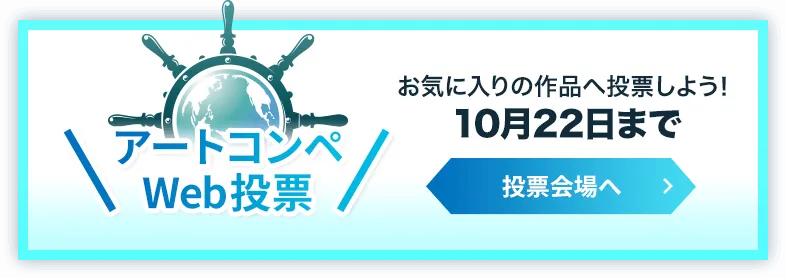
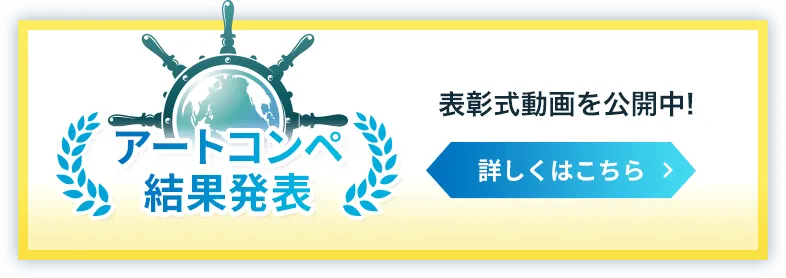
fix: 結果発表バナー・URL差し替え

diff --git a/src/pages/en/news/index.js b/src/pages/en/news/index.js
@@ -64,7 +64,7 @@ const NewsPage = ({ location }) => {
             <ContentsLine pathname={location.pathname} />
             <TextMediumTrim>We are very happy to announce the BLUE HUNTER Art Contest shortlist. Despite receiving so many wonderful entries, the judging panel have narrowed things down to 29 nominees. These works will move on to the final selection process. We have also opened voting for the MAL User Prize, so don’t forget to vote for your favorite nominated work!</TextMediumTrim>
             <div className={styles.img_wrapper}>
-              <a href="https://bha.myanimelist.net/en">
+              <a href="/en/special/">
                 <img src="/common/bnr_art_en.png" alt="" />
               </a>
             </div>

diff --git a/src/components/atoms/BnrArt.js b/src/components/atoms/BnrArt.js
@@ -4,10 +4,10 @@ import * as styles from "./BnrArt.module.scss"
 const BnrArt = () => {
   return (
     <div className={styles.bnr_wrapper}>
-      <a href="https://bha.myanimelist.net" className={styles.bnr_link} target="_blank" rel="noopener">
+      <a href="/special/" className={styles.bnr_link} rel="noopener">
         <picture>
           <source type="image/webp" srcset="/common/bnr_art.webp" />
-          <img src="/common/bnr_art.png" loading="lazy" className={styles.bnr_img} alt="アートコンペ作品募集中" />
+          <img src="/common/bnr_art.png" loading="lazy" className={styles.bnr_img} alt="アートコンペ結果発表" />
         </picture>
       </a>
     </div>

diff --git a/src/components/atoms/BnrArtTop.js b/src/components/atoms/BnrArtTop.js
@@ -3,8 +3,8 @@ import * as styles from "./BnrArtTop.module.scss"
 
 const BnrArtTop = () => {
   return (
-    <a href="https://bha.myanimelist.net" className={styles.bnr_link} target="_blank" rel="noopener">
-      <img className={styles.bnr_img} src="/top/bnr_art_top.png" alt="アートコンペ作品募集中" loading="lazy" />
+    <a href="/special/" className={styles.bnr_link} rel="noopener">
+      <img className={styles.bnr_img} src="/top/bnr_art_top.png" alt="アートコンペ結果発表" loading="lazy" />
     </a>
   )
 }

diff --git a/src/components/atoms/BnrArtEn.js b/src/components/atoms/BnrArtEn.js
@@ -4,7 +4,7 @@ import * as styles from "./BnrArt.module.scss"
 const BnrArt = () => {
   return (
     <div className={styles.bnr_wrapper}>
-      <a href="https://bha.myanimelist.net/en" className={styles.bnr_link} target="_blank" rel="noopener">
+      <a href="/en/special/" className={styles.bnr_link} rel="noopener">
         <img className={styles.bnr_img} src="/common/bnr_art_en.png" alt="BLUE HUNTER Art Contest" loading="lazy" />
       </a>
     </div>

diff --git a/src/components/atoms/BnrArtTopEn.js b/src/components/atoms/BnrArtTopEn.js
@@ -3,7 +3,7 @@ import * as styles from "./BnrArtTop.module.scss"
 
 const BnrArtTop = () => {
   return (
-    <a href="https://bha.myanimelist.net/en" className={styles.bnr_link} target="_blank" rel="noopener">
+    <a href="/en/special/" className={styles.bnr_link} rel="noopener">
       <img className={styles.bnr_img} src="/top/bnr_art_top_en.png" alt="BLUE HUNTER Art Contest" loading="lazy" />
     </a>
   )

diff --git a/src/pages/news/index.js b/src/pages/news/index.js
@@ -70,7 +70,7 @@ const NewsPage = ({ location }) => {
               ※投票にはMyAnimeList IDが必要です。
               </TextMediumTrim>
               <div className={styles.img_wrapper}>
-                <a href="https://bha.myanimelist.net">
+                <a href="/special/">
                   <img src="/common/bnr_art.png" alt="" />
                 </a>
               </div>
